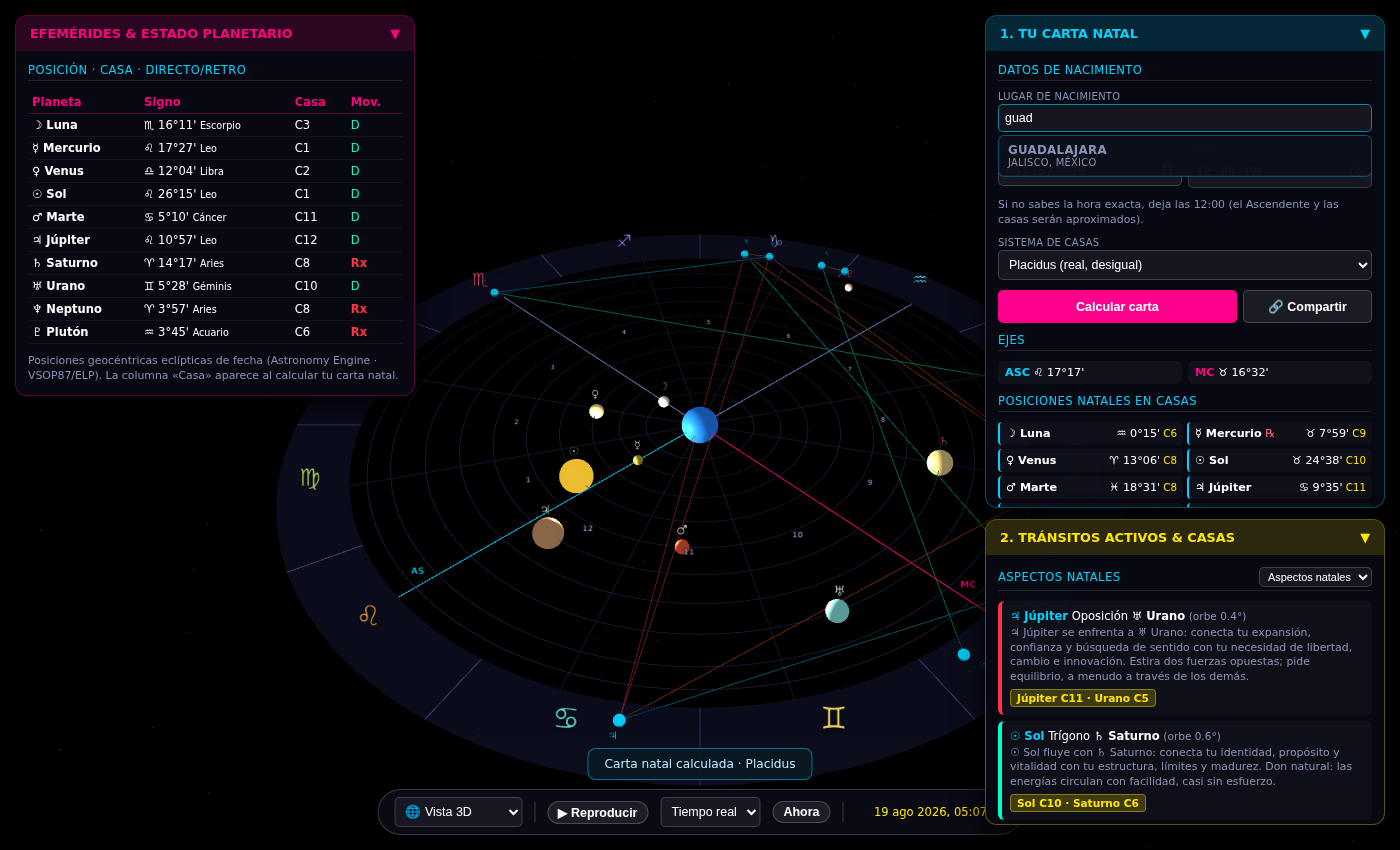
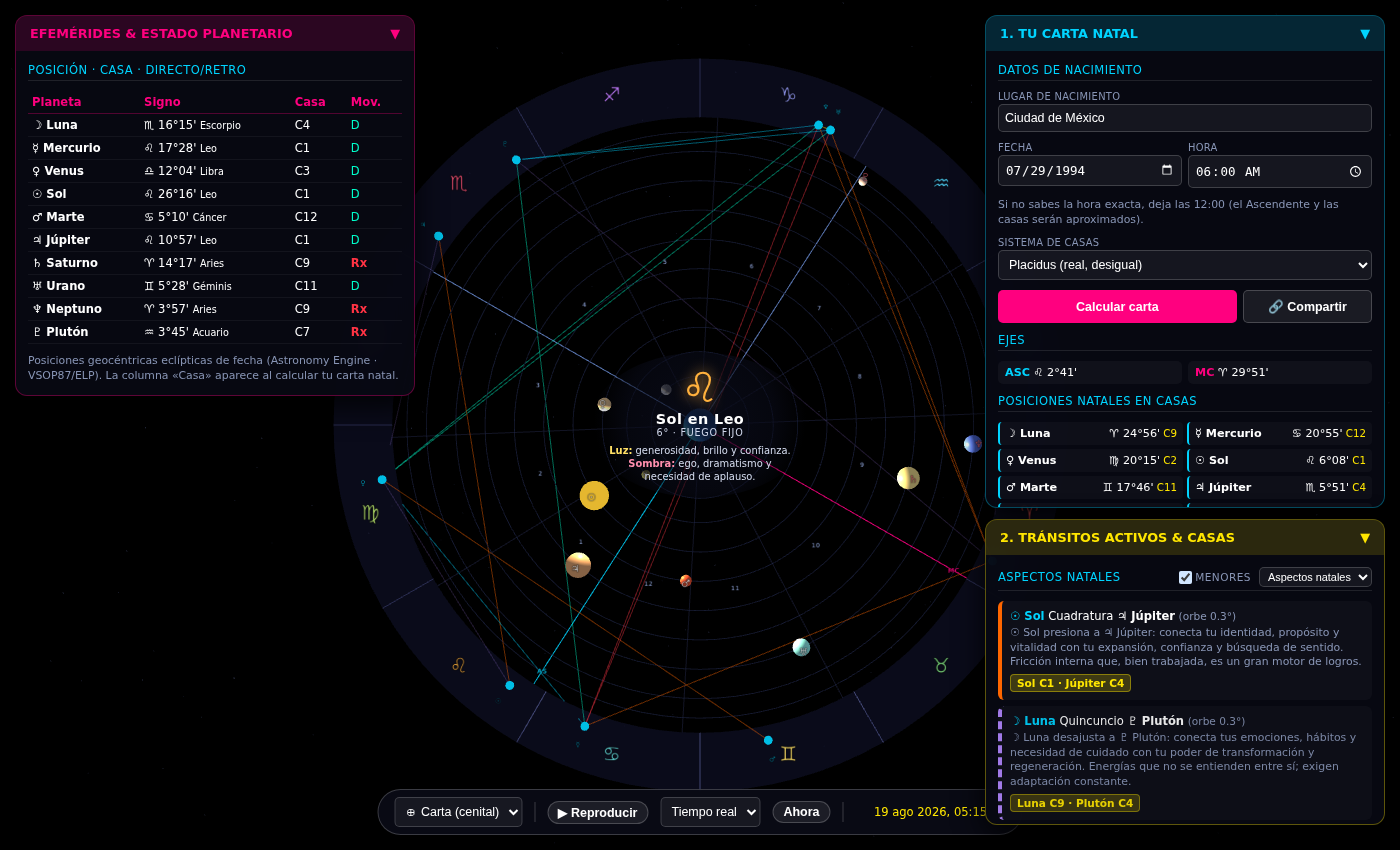
Aspectos menores y signo solar (luz/sombra) al centro de la carta
- Aspectos menores: semisextil, semicuadratura, quintil, sesquicuadratura y
  quincuncio, con orbes pequeños, líneas más tenues (y punteadas en las
  tarjetas) y casilla «menores» para mostrarlos u ocultarlos.
- Interpretaciones de los aspectos menores en el motor de significados.
- Centro de la carta: tarjeta con el Sol del consultante (signo, elemento y
  modalidad) y su descripción de luz y sombra, anclada al centro de la escena.

Claude-Session: https://claude.ai/code/session_01N27gc3scisdW6ryiPPQq87

diff --git a/js/app.js b/js/app.js
@@ -124,6 +124,7 @@
     };
 
     renderNatalGrid();
+    updateSunHub();
     Scene.setNatalMarkers(natalT.positions);
     Scene.setHouses(houses);
     refreshScene();
@@ -214,6 +215,22 @@
     return s.glyph + ' ' + dms.d + '°' + String(dms.m).padStart(2, '0') + "'";
   }
 
+  // Signo solar del consultante en el centro de la carta, con luz y sombra.
+  function updateSunHub() {
+    var hub = $('center-hub');
+    if (!state.natal) { hub.style.display = 'none'; return; }
+    var lon = state.natal.positions['Sol'];
+    var s = Data.SIGNS[Astro.signIndex(lon)];
+    var dms = Astro.formatDMS(lon);
+    hub.innerHTML =
+      '<div class="glyph" style="color:' + s.color + '">' + s.glyph + '</div>' +
+      '<div class="sun-name">Sol en ' + s.name + '</div>' +
+      '<div class="sun-sub">' + dms.d + '° · ' + s.element + ' ' + s.quality + '</div>' +
+      '<div class="ls"><span><b>Luz:</b> ' + s.light + '.</span><br>' +
+      '<span class="sh"><b>Sombra:</b> ' + s.shadow + '.</span></div>';
+    hub.style.display = 'block';
+  }
+
   // ---------------- Panel de aspectos (según el modo de vista) ----------
   // En modo tránsito: aspectos Tránsito → Natal y qué casa natal activan.
   // En modo natal: aspectos internos de la carta natal.
@@ -237,6 +254,8 @@
     });
   }
 
+  function minorOn() { return $('minor-toggle').checked; }
+
   function buildTransitAspects(container, titleEl) {
     if (titleEl) titleEl.textContent = 'Aspectos Tránsito → Natal';
     var filter = $('transit-filter').value;
@@ -244,7 +263,7 @@
     var transitPlanets = Astro.BODIES.filter(function (p) { return filter === 'all' || slowSet[p]; });
     var tSet = {};
     transitPlanets.forEach(function (p) { tSet[p] = transit.positions[p]; });
-    var aspects = Astro.findAspects(tSet, state.natal.positions, false);
+    var aspects = Astro.findAspects(tSet, state.natal.positions, false, minorOn());
     var cusps = state.natal.houses.cusps;
     var html = '', specs = [];
     aspects.forEach(function (asp, i) {
@@ -258,7 +277,7 @@
         '<div class="hint" style="margin-top:3px">' + Data.interpretAspect(t.name, tP, nP, true) + '</div>' +
         '<div class="house-badge">Activa ' + (hInfo ? hInfo.name : 'Casa ' + house) + '</div>' +
         '</div>';
-      specs.push({ id: id, a: tP, b: nP, kindA: 'transit', kindB: 'natal', color: t.color });
+      specs.push({ id: id, a: tP, b: nP, kindA: 'transit', kindB: 'natal', color: t.color, minor: t.minor });
     });
     container.innerHTML = html || '<div class="hint">No hay aspectos mayores activos bajo este filtro.</div>';
     lastTransitNatalSpecs = specs;
@@ -267,7 +286,7 @@
 
   function buildNatalAspects(container, titleEl) {
     if (titleEl) titleEl.textContent = 'Aspectos Natales';
-    var aspects = Astro.findAspects(state.natal.positions, state.natal.positions, true);
+    var aspects = Astro.findAspects(state.natal.positions, state.natal.positions, true, minorOn());
     var cusps = state.natal.houses.cusps;
     var html = '', specs = [];
     aspects.forEach(function (asp, i) {
@@ -282,7 +301,7 @@
         '<div class="house-badge">' + aP + ' C' + ha + ' · ' + bP + ' C' + hb + '</div>' +
         '</div>';
       // Líneas entre los marcadores natales fijos (rueda interior).
-      specs.push({ id: id, a: aP, b: bP, kindA: 'natal', kindB: 'natal', color: t.color });
+      specs.push({ id: id, a: aP, b: bP, kindA: 'natal', kindB: 'natal', color: t.color, minor: t.minor });
     });
     container.innerHTML = html || '<div class="hint">Sin aspectos mayores entre los planetas natales.</div>';
     Scene.setAspectLines(specs);
@@ -462,6 +481,7 @@
   // ------------------------------ Wiring --------------------------------
   function init() {
     Scene.init($('canvas-container'), { onHover: onHover, onSelect: onSelect });
+    Scene.attachHub($('center-hub'));
 
     transit = computeTransit(state.simTime);
     Scene.setTransitLongitudes(transit.positions, transit.retro);
@@ -477,6 +497,7 @@
     $('btn-calculate').addEventListener('click', onCalculate);
     $('btn-share').addEventListener('click', shareLink);
     $('transit-filter').addEventListener('change', rebuildAspects);
+    $('minor-toggle').addEventListener('change', rebuildAspects);
     $('house-system').addEventListener('change', function () {
       state.houseSystem = $('house-system').value;
       if (state.natal) onCalculate();

diff --git a/js/scene.js b/js/scene.js
@@ -18,6 +18,7 @@
   var pickables = [];    // meshes con userData.planet / kind
   var raycaster, pointer = new THREE.Vector2();
   var hoverName = null;
+  var hubEl = null; // tarjeta HTML del signo solar, anclada al centro de la carta
   var callbacks = { onHover: function () {}, onSelect: function () {} };
 
   // Radios de órbita (geocéntrico, puramente visual pero ordenado por distancia).
@@ -276,17 +277,19 @@
     housesGroup.add(lbl);
   }
 
-  // Reemplaza las líneas de aspecto. specs: [{a, b, kindA, kindB, color}]
+  // Reemplaza las líneas de aspecto. specs: [{a, b, kindA, kindB, color, minor}]
   function setAspectLines(specs) {
     aspectGroup.clear();
     aspectLines = [];
     specs.forEach(function (s) {
       var geom = new THREE.BufferGeometry();
       geom.setAttribute('position', new THREE.BufferAttribute(new Float32Array(6), 3));
+      var base = s.minor ? 0.2 : 0.45; // los menores se dibujan más tenues
       var line = new THREE.Line(geom, new THREE.LineBasicMaterial({
-        color: s.color, transparent: true, opacity: 0.4
+        color: s.color, transparent: true, opacity: base
       }));
       line.userData.id = s.id;
+      line.userData.base = base;
       aspectGroup.add(line);
       aspectLines.push({
         line: line,
@@ -306,7 +309,7 @@
   function highlightAspect(id, on) {
     aspectLines.forEach(function (al) {
       if (al.line.userData.id === id) {
-        al.line.material.opacity = on ? 1.0 : 0.4;
+        al.line.material.opacity = on ? 1.0 : al.line.userData.base;
       }
     });
   }
@@ -387,7 +390,16 @@
 
     controls.update();
     renderer.render(scene, camera);
+
+    // Ancla la tarjeta del signo solar al centro (origen) de la carta.
+    if (hubEl && hubEl.style.display !== 'none') {
+      var v = new THREE.Vector3(0, 0, 0).project(camera);
+      hubEl.style.left = ((v.x * 0.5 + 0.5) * window.innerWidth) + 'px';
+      hubEl.style.top = ((-v.y * 0.5 + 0.5) * window.innerHeight) + 'px';
+    }
   }
+
+  function attachHub(el) { hubEl = el; }
 
   // Enfoca suavemente un planeta (para clic desde la lista).
   function focusPlanet(name) {
@@ -415,6 +427,7 @@
     setAspectLines: setAspectLines,
     highlightAspect: highlightAspect,
     focusPlanet: focusPlanet,
-    setCameraMode: setCameraMode
+    setCameraMode: setCameraMode,
+    attachHub: attachHub
   };
 })();

diff --git a/js/astro.js b/js/astro.js
@@ -165,16 +165,23 @@
 
   // --------------------------- Aspectos ---------------------------------
   var ASPECT_TYPES = [
-    { name: 'Conjunción', angle: 0,   orb: 6, cls: 'conj', color: 0xffe600 },
-    { name: 'Oposición',  angle: 180, orb: 6, cls: 'opp',  color: 0xff3344 },
-    { name: 'Cuadratura', angle: 90,  orb: 5, cls: 'sq',   color: 0xff6600 },
-    { name: 'Trígono',    angle: 120, orb: 5, cls: 'tri',  color: 0x00ffcc },
-    { name: 'Sextil',     angle: 60,  orb: 4, cls: 'sex',  color: 0x00d4ff }
+    // Mayores
+    { name: 'Conjunción', angle: 0,   orb: 6,   cls: 'conj', color: 0xffe600, minor: false },
+    { name: 'Oposición',  angle: 180, orb: 6,   cls: 'opp',  color: 0xff3344, minor: false },
+    { name: 'Cuadratura', angle: 90,  orb: 5,   cls: 'sq',   color: 0xff6600, minor: false },
+    { name: 'Trígono',    angle: 120, orb: 5,   cls: 'tri',  color: 0x00ffcc, minor: false },
+    { name: 'Sextil',     angle: 60,  orb: 4,   cls: 'sex',  color: 0x00d4ff, minor: false },
+    // Menores (orbes pequeños, líneas más tenues)
+    { name: 'Quincuncio',     angle: 150, orb: 2.0, cls: 'min', color: 0xb388ff, minor: true },
+    { name: 'Sesquicuadratura', angle: 135, orb: 1.5, cls: 'min', color: 0xb388ff, minor: true },
+    { name: 'Semicuadratura', angle: 45,  orb: 1.5, cls: 'min', color: 0xb388ff, minor: true },
+    { name: 'Quintil',        angle: 72,  orb: 1.2, cls: 'min', color: 0xb388ff, minor: true },
+    { name: 'Semisextil',     angle: 30,  orb: 1.2, cls: 'min', color: 0xb388ff, minor: true }
   ];
 
   // Compara dos conjuntos de longitudes {planeta: grados} y devuelve aspectos.
   // Si sameSet es true (aspectos internos) evita duplicados y auto-pares.
-  function findAspects(setA, setB, sameSet) {
+  function findAspects(setA, setB, sameSet, includeMinor) {
     var out = [];
     var keysA = Object.keys(setA), keysB = Object.keys(setB);
     keysA.forEach(function (a) {
@@ -185,6 +192,7 @@
         if (diff > 180) diff = 360 - diff;
         for (var k = 0; k < ASPECT_TYPES.length; k++) {
           var t = ASPECT_TYPES[k];
+          if (t.minor && !includeMinor) continue;
           var orbUsed = Math.abs(diff - t.angle);
           if (orbUsed <= t.orb) {
             out.push({ a: a, b: b, type: t, orb: orbUsed });

diff --git a/js/data.js b/js/data.js
@@ -140,7 +140,23 @@
       transit: 'abre una ventana favorable, fácil de aprovechar.' },
     'Sextil':     { angle: 60,  nature: 'armónico', keyword: 'oportunidad',             verbPair: 'coopera con',
       natal: 'Potencial de talento que se activa con un poco de iniciativa.',
-      transit: 'ofrece una oportunidad que rinde fruto si tomas la iniciativa.' }
+      transit: 'ofrece una oportunidad que rinde fruto si tomas la iniciativa.' },
+    // Aspectos menores (matices más sutiles)
+    'Quincuncio':       { angle: 150, nature: 'menor', keyword: 'ajuste incómodo', verbPair: 'desajusta a',
+      natal: 'Energías que no se entienden entre sí; exigen adaptación constante.',
+      transit: 'pide reajustes entre áreas que no encajan del todo.' },
+    'Sesquicuadratura': { angle: 135, nature: 'menor', keyword: 'tensión intermitente', verbPair: 'presiona levemente a',
+      natal: 'Tensión que aflora a ratos, sobre todo bajo presión.',
+      transit: 'irritación menor que empuja a resolver algo pendiente.' },
+    'Semicuadratura':   { angle: 45,  nature: 'menor', keyword: 'roce menor', verbPair: 'irrita a',
+      natal: 'Fricción pequeña que genera cierta inquietud o impaciencia.',
+      transit: 'roce leve que pide un pequeño ajuste.' },
+    'Quintil':          { angle: 72,  nature: 'menor', keyword: 'talento creativo', verbPair: 'inspira a',
+      natal: 'Don creativo o habilidad especial, poco convencional.',
+      transit: 'chispa de ingenio o inspiración creativa.' },
+    'Semisextil':       { angle: 30,  nature: 'menor', keyword: 'ajuste sutil', verbPair: 'roza a',
+      natal: 'Conexión leve entre energías vecinas; integración gradual.',
+      transit: 'matiz sutil, fácil de pasar por alto.' }
   };
 
   function sign(name) { return SIGNS.find(function (s) { return s.name === name; }); }

diff --git a/css/style.css b/css/style.css
@@ -111,7 +111,11 @@ td.direct { color: #00ffcc; }
 .aspect-card.sq   { border-left-color: #ff6600; }
 .aspect-card.tri  { border-left-color: #00ffcc; }
 .aspect-card.sex  { border-left-color: #00d4ff; }
+.aspect-card.min  { border-left-style: dashed; border-left-color: #b388ff; opacity: 0.9; }
 .aspect-card .orb { color: #8895b5; font-size: 0.66rem; }
+
+.mini-check { font-size: 0.66rem; color: #8895b5; display: flex; align-items: center; gap: 3px; cursor: pointer; }
+.mini-check input { width: auto; margin: 0; }
 .house-badge {
   display: inline-block; background: rgba(255, 230, 0, 0.2); color: #ffe600;
   padding: 2px 6px; border-radius: 4px; font-weight: bold; font-size: 0.66rem;
@@ -157,6 +161,21 @@ td.direct { color: #00ffcc; }
   position: absolute; inset: 0; z-index: 100; display: none;
   background: #05060c; color: #ffd0d8; padding: 40px; font-size: 0.9rem; line-height: 1.6;
 }
+
+/* ---------- Signo solar en el centro de la carta ---------- */
+#center-hub {
+  position: fixed; z-index: 6; display: none;
+  transform: translate(-50%, -50%);
+  width: 220px; text-align: center; pointer-events: none;
+  padding: 14px 12px; border-radius: 50%;
+  background: radial-gradient(circle at 50% 45%, rgba(10,12,26,0.86) 0%, rgba(10,12,26,0.55) 55%, rgba(10,12,26,0) 78%);
+}
+#center-hub .glyph { font-size: 2.6rem; line-height: 1; text-shadow: 0 0 14px currentColor; }
+#center-hub .sun-name { font-size: 0.9rem; font-weight: bold; margin-top: 2px; letter-spacing: 0.03em; }
+#center-hub .sun-sub { font-size: 0.6rem; color: #cfd6ea; text-transform: uppercase; letter-spacing: 0.08em; margin-bottom: 6px; }
+#center-hub .ls { font-size: 0.62rem; line-height: 1.35; color: #d6ddf0; }
+#center-hub .ls b { color: #ffe066; }
+#center-hub .ls .sh b { color: #ff8fae; }
 
 /* ---------- Móvil ---------- */
 @media (max-width: 760px) {

diff --git a/index.html b/index.html
@@ -10,6 +10,9 @@
 
   <div id="canvas-container"></div>
 
+  <!-- Signo solar del consultante, anclado al centro de la carta -->
+  <div id="center-hub"></div>
+
   <!-- Aviso si faltan librerías -->
   <div id="lib-error"></div>
 
@@ -109,11 +112,14 @@
     <div class="panel-content">
       <div class="section-title">
         <span id="aspects-title">Aspectos Tránsito → Natal</span>
-        <select id="transit-filter" style="width:auto; padding:2px 4px; font-size:0.68rem;">
-          <option value="slow">Tránsitos: lentos</option>
-          <option value="all">Tránsitos: todos</option>
-          <option value="natal">Aspectos natales</option>
-        </select>
+        <span style="display:flex; gap:8px; align-items:center;">
+          <label class="mini-check"><input type="checkbox" id="minor-toggle" checked> menores</label>
+          <select id="transit-filter" style="width:auto; padding:2px 4px; font-size:0.68rem;">
+            <option value="slow">Tránsitos: lentos</option>
+            <option value="all">Tránsitos: todos</option>
+            <option value="natal">Aspectos natales</option>
+          </select>
+        </span>
       </div>
       <div id="transit-aspects-container" style="display:flex; flex-direction:column; gap:6px;"></div>
     </div>

diff --git a/README.md b/README.md
@@ -55,6 +55,8 @@ embebido (CSS + librerías + módulos) para compartir o abrir sin la carpeta
 | **Vista tipo carta + móvil** | ✅ Cámara cenital que se lee como una carta natal (bi-rueda: natal fijo + tránsito en movimiento, juntos) y opción 3D. Interfaz adaptada a móvil con paneles colapsables. |
 | **Interacción 3D (raycasting)** | ✅ Hover y clic sobre planetas natales y de tránsito despliegan una tarjeta con signo, casa activada e interpretación didáctica. |
 | **Motor de interpretaciones** | ✅ Significados de planetas, signos, casas y aspectos, con lecturas diferenciadas para la **carta natal** y para los **tránsitos**. |
+| **Aspectos mayores y menores** | ✅ Mayores (conjunción, oposición, cuadratura, trígono, sextil) y **menores** (semisextil, semicuadratura, quintil, sesquicuadratura, quincuncio), con líneas más tenues y opción para ocultarlos. |
+| **Signo solar al centro** | ✅ En el centro de la carta aparece el **Sol** del consultante con su signo y una descripción de su **luz** y su **sombra**. |
 | **Control de tiempo** | ✅ Reproducción en tiempo real o acelerada (hora/día/semana/mes por segundo) y botón «Ahora». |
 | **Guardar y compartir** | ✅ La carta se guarda en el navegador (localStorage) y se codifica en la URL: el botón «🔗 Compartir» copia un enlace que reabre tu carta ya calculada. |
 
